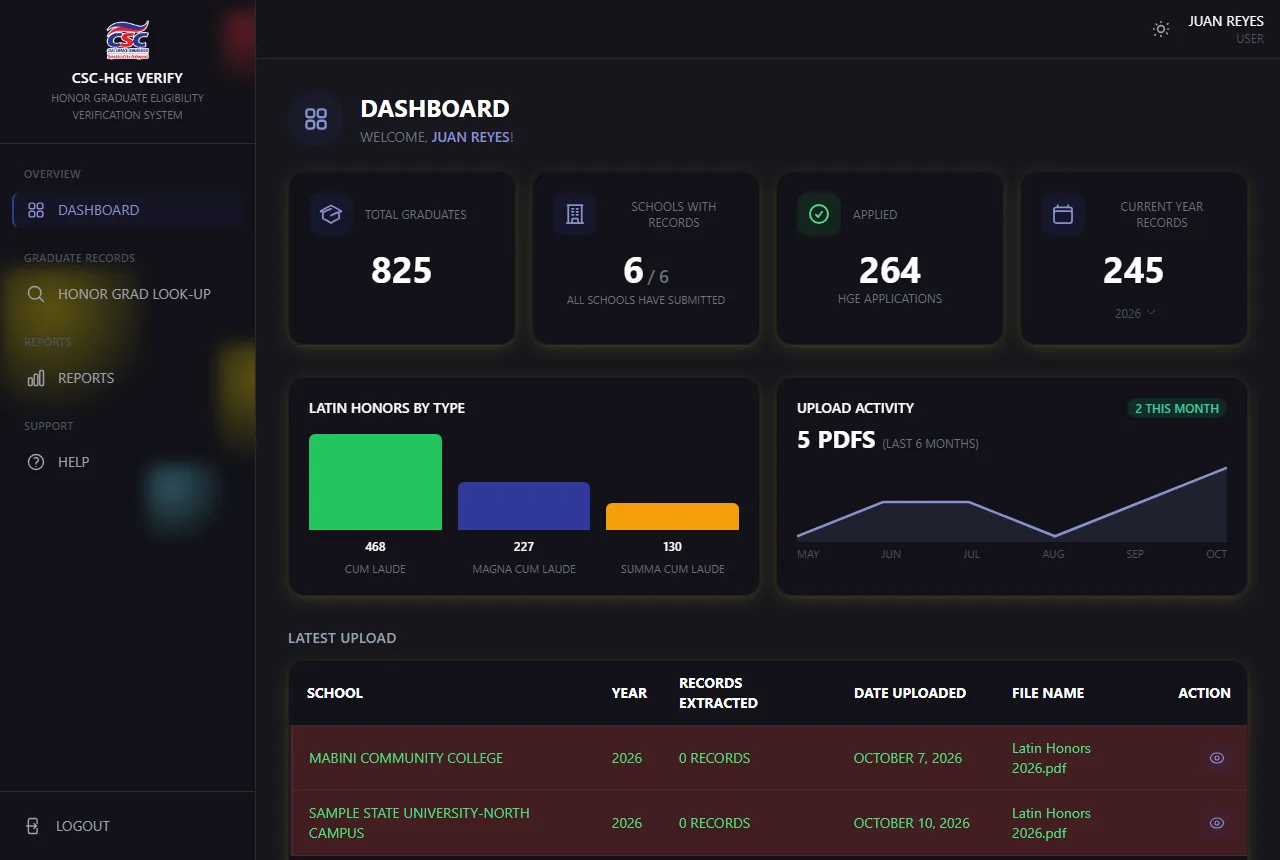
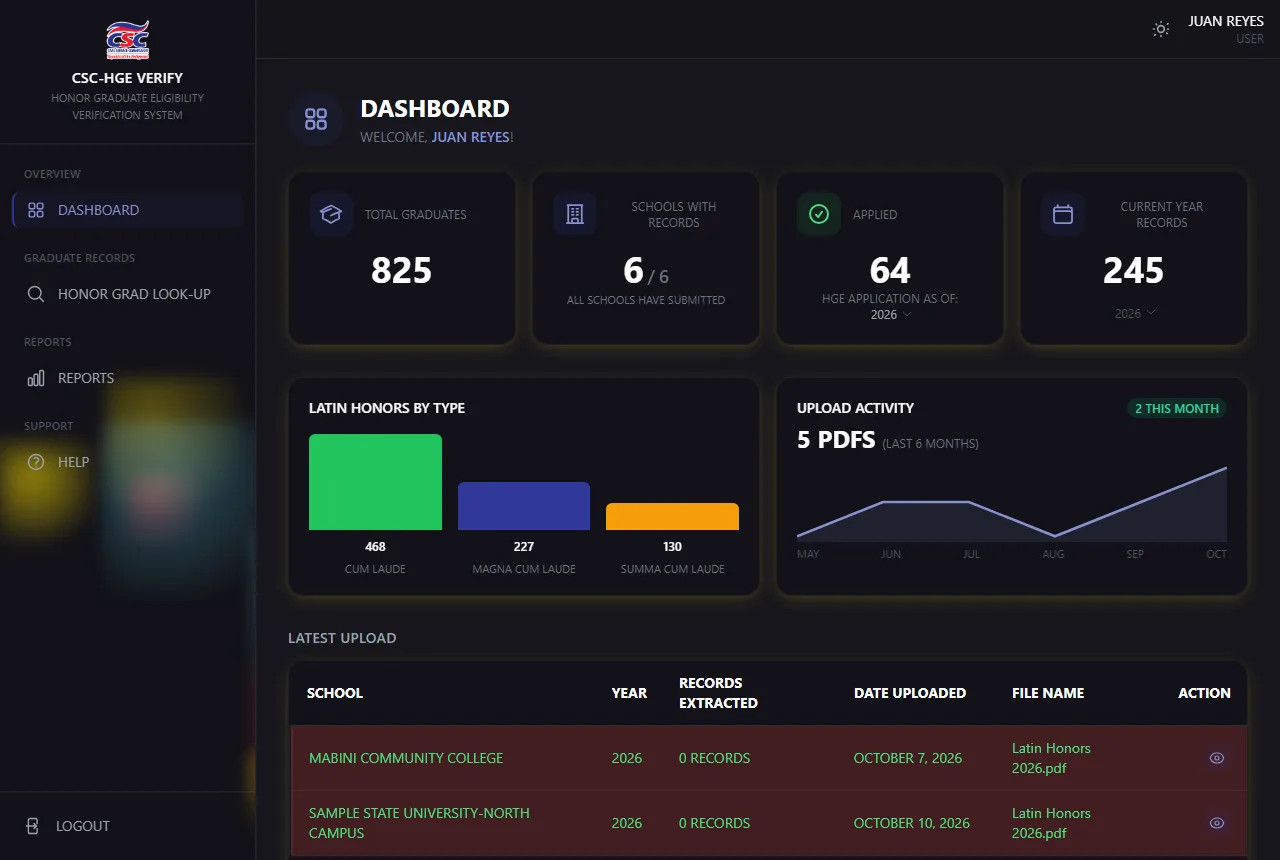
feat: dashboard APPLIED card shows applications per year with a year dropdown

diff --git a/assets/js/dashboard.js b/assets/js/dashboard.js
@@ -128,9 +128,11 @@ document.addEventListener('DOMContentLoaded', function () {
         });
     });
 
-    var yearSelect = document.getElementById('dashboard-year-select');
-    var yearRecordsNumber = document.getElementById('dashboard-year-records-number');
-    if (yearSelect && yearRecordsNumber) {
+    // A card whose number follows a year dropdown (CURRENT YEAR RECORDS, HGE APPLICATION AS OF).
+    function bindYearCard(yearSelect, yearRecordsNumber, metricQuery) {
+        if (!yearSelect || !yearRecordsNumber) {
+            return;
+        }
         var prefersReducedMotion = window.matchMedia('(prefers-reduced-motion: reduce)').matches;
 
         yearSelect.addEventListener('change', function () {
@@ -139,7 +141,7 @@ document.addEventListener('DOMContentLoaded', function () {
             var previousText = yearRecordsNumber.textContent;
             yearRecordsNumber.classList.add('opacity-50');
 
-            fetch(config.apiBase + '/api/get_dashboard_year_records.php?year=' + encodeURIComponent(year))
+            fetch(config.apiBase + '/api/get_dashboard_year_records.php?year=' + encodeURIComponent(year) + metricQuery)
                 .then(function (response) {
                     return response.json();
                 })
@@ -172,4 +174,7 @@ document.addEventListener('DOMContentLoaded', function () {
                 });
         });
     }
+
+    bindYearCard(document.getElementById('dashboard-year-select'), document.getElementById('dashboard-year-records-number'), '');
+    bindYearCard(document.getElementById('dashboard-applied-year-select'), document.getElementById('dashboard-applied-number'), '&metric=applied');
 });

diff --git a/tests/includes/FlashAndStatsTest.php b/tests/includes/FlashAndStatsTest.php
@@ -30,7 +30,7 @@ class FlashAndStatsTest extends TestCase
         $this->assertSame(0, $stats['total_schools']);
         $this->assertSame(0, $stats['total_active_schools']);
         $this->assertSame(0, $stats['total_uploads']);
-        $this->assertSame(0, $stats['total_applied']);
+        $this->assertSame(0, $stats['applied_this_year']);
         $this->assertNull($stats['current_year']);
         $this->assertSame(0, $stats['current_year_records']);
     }
@@ -55,7 +55,7 @@ class FlashAndStatsTest extends TestCase
         $this->assertSame(1, $stats['total_schools']);
         $this->assertSame(2, $stats['total_active_schools']);
         $this->assertSame(1, $stats['total_uploads']);
-        $this->assertSame(0, $stats['total_applied']);
+        $this->assertSame(0, $stats['applied_this_year']);
         $this->assertSame(2025, $stats['current_year']);
         $this->assertSame(1, $stats['current_year_records']);
     }
@@ -152,5 +152,33 @@ class FlashAndStatsTest extends TestCase
         $series = get_upload_activity_by_month($pdo, 6);
 
         $this->assertSame(1, $series[5]['count']);
+    }
+    public function testApplicationsAreCountedPerYearFiledAndTheCurrentYearIsAlwaysOffered(): void
+    {
+        $pdo = TestDb::pdo();
+        $pdo->exec("INSERT INTO users (name, username, email, password, role) VALUES ('Admin', 'admin', 'a@a.com', 'x', 'administrator')");
+        $pdo->exec("INSERT INTO schools (school_name) VALUES ('ABC UNIVERSITY')");
+        $pdo->exec(
+            "INSERT INTO latin_honor_uploads (school_id, school_year, original_filename, stored_filename, file_path, file_size, file_hash, uploaded_by, extraction_status, records_extracted)
+             VALUES (1, '2025', 'list.pdf', 'stored.pdf', '/storage/pdfs/stored.pdf', 100, SHA2('x',256), 1, 'reviewed', 3)"
+        );
+        $pdo->exec(
+            "INSERT INTO latin_honor_graduates (upload_id, school_id, graduate_name, latin_honor, graduation_year)
+             VALUES (1, 1, 'A ONE', 'CUM LAUDE', 2025), (1, 1, 'B TWO', 'CUM LAUDE', 2025), (1, 1, 'C THREE', 'CUM LAUDE', 2025)"
+        );
+        $pdo->exec(
+            "INSERT INTO graduate_applications (graduate_id, applied_by, application_date)
+             VALUES (1, 1, '2024-03-01'), (2, 1, '2024-12-31'), (3, 1, '2023-05-05')"
+        );
+
+        $this->assertSame(2, get_applied_count_by_year($pdo, 2024));
+        $this->assertSame(1, get_applied_count_by_year($pdo, 2023));
+        $this->assertSame(0, get_applied_count_by_year($pdo, 2030));
+
+        $years = get_application_years($pdo);
+        $this->assertSame((int) date('Y'), $years[0]);
+        $this->assertContains(2024, $years);
+        $this->assertContains(2023, $years);
+        $this->assertSame($years, array_values(array_unique($years)));
     }
 }

diff --git a/includes/functions.php b/includes/functions.php
@@ -206,7 +206,6 @@ function get_dashboard_stats(PDO $pdo): array
     $totalSchools = (int) $pdo->query('SELECT COUNT(DISTINCT school_id) FROM latin_honor_uploads')->fetchColumn();
     $totalActiveSchools = (int) $pdo->query("SELECT COUNT(*) FROM schools WHERE status = 'active'")->fetchColumn();
     $totalUploads = (int) $pdo->query('SELECT COUNT(*) FROM latin_honor_uploads')->fetchColumn();
-    $totalApplied = (int) $pdo->query('SELECT COUNT(*) FROM graduate_applications')->fetchColumn();
     $currentYear = $pdo->query('SELECT MAX(graduation_year) FROM latin_honor_graduates')->fetchColumn();
 
     $currentYearRecords = $currentYear !== null ? get_graduate_count_by_year($pdo, (int) $currentYear) : 0;
@@ -216,7 +215,8 @@ function get_dashboard_stats(PDO $pdo): array
         'total_schools' => $totalSchools,
         'total_active_schools' => $totalActiveSchools,
         'total_uploads' => $totalUploads,
-        'total_applied' => $totalApplied,
+        'applied_year' => (int) date('Y'),
+        'applied_this_year' => get_applied_count_by_year($pdo, (int) date('Y')),
         'current_year' => $currentYear !== null ? (int) $currentYear : null,
         'current_year_records' => $currentYearRecords,
     ];
@@ -357,6 +357,35 @@ function ai_availability_tier(int $usedPercent): array
     }
 
     return $tier + ['available_percent' => $availablePercent];
+}
+
+/**
+ * Backs the dashboard's "HGE APPLICATION AS OF" card (admin/dashboard.php +
+ * api/get_dashboard_year_records.php?metric=applied): how many applications were
+ * filed (application_date) in the given calendar year.
+ */
+function get_applied_count_by_year(PDO $pdo, int $year): int
+{
+    $stmt = $pdo->prepare('SELECT COUNT(*) FROM graduate_applications WHERE YEAR(application_date) = :year');
+    $stmt->execute(['year' => $year]);
+
+    return (int) $stmt->fetchColumn();
+}
+
+/**
+ * Years offered by that card's dropdown: every year an application was filed in,
+ * plus the current year (the default), newest first.
+ *
+ * @return int[]
+ */
+function get_application_years(PDO $pdo): array
+{
+    $years = array_map('intval', $pdo->query('SELECT DISTINCT YEAR(application_date) FROM graduate_applications')->fetchAll(PDO::FETCH_COLUMN));
+    $years[] = (int) date('Y');
+    $years = array_values(array_unique($years));
+    rsort($years);
+
+    return $years;
 }
 
 function get_distinct_graduation_years(PDO $pdo): array

diff --git a/admin/dashboard.php b/admin/dashboard.php
@@ -11,6 +11,7 @@ require_login();
 $pdo = get_pdo();
 $stats = get_dashboard_stats($pdo);
 $graduationYears = get_distinct_graduation_years($pdo);
+$applicationYears = get_application_years($pdo);
 $recentUploads = get_recent_uploads($pdo, 10);
 $honorBreakdown = get_honor_type_breakdown($pdo);
 $uploadActivity = get_upload_activity_by_month($pdo, 6);
@@ -72,8 +73,18 @@ include __DIR__ . '/../includes/sidebar.php';
                     <p class="text-xs text-gray-600 dark:text-gray-500">APPLIED</p>
                 </div>
                 <div>
-                    <p class="dashboard-stat-number" data-count-to="<?= (int) $stats['total_applied'] ?>">0</p>
-                    <p class="text-xs text-gray-500 dark:text-gray-500 mt-0.5">HGE APPLICATIONS</p>
+                    <p class="dashboard-stat-number" id="dashboard-applied-number" data-count-to="<?= (int) $stats['applied_this_year'] ?>">0</p>
+                    <div class="mt-0.5 flex flex-col items-center text-xs text-gray-500 dark:text-gray-500">
+                        <label for="dashboard-applied-year-select">HGE APPLICATION AS OF:</label>
+                        <div class="relative inline-block">
+                            <select id="dashboard-applied-year-select" class="appearance-none bg-transparent text-xs text-gray-500 dark:text-gray-400 text-center pl-1 pr-4 cursor-pointer hover:text-gray-700 dark:hover:text-gray-300 focus:outline-none">
+                                <?php foreach ($applicationYears as $y): ?>
+                                    <option value="<?= (int) $y ?>" <?= $y === $stats['applied_year'] ? 'selected' : '' ?>><?= (int) $y ?></option>
+                                <?php endforeach; ?>
+                            </select>
+                            <svg class="pointer-events-none absolute right-0 top-1/2 -translate-y-1/2 h-3 w-3 text-gray-400 dark:text-gray-600" fill="none" viewBox="0 0 24 24" stroke="currentColor" stroke-width="2"><path stroke-linecap="round" stroke-linejoin="round" d="M19.5 8.25l-7.5 7.5-7.5-7.5" /></svg>
+                        </div>
+                    </div>
                 </div>
             </div>
             <div class="dashboard-stat-card motion-safe:animate-fade-in-up" style="animation-delay: 600ms">

diff --git a/admin/help.php b/admin/help.php
@@ -51,7 +51,7 @@ $sections = [
         'intro' => 'The dashboard is a quick summary of what is in the system. It is the first page you see after signing in.',
         'steps' => [
             'Click [[DASHBOARD]] in the menu.',
-            'Read the cards at the top: [[TOTAL GRADUATES]], [[SCHOOLS WITH RECORDS]], [[APPLIED]] (HGE applications filed so far) and [[CURRENT YEAR RECORDS]].',
+            'Read the cards at the top: [[TOTAL GRADUATES]], [[SCHOOLS WITH RECORDS]], [[APPLIED]] (HGE applications filed in the year chosen in the [[HGE APPLICATION AS OF:]] box, this year by default) and [[CURRENT YEAR RECORDS]].',
             'Below them, [[LATIN HONORS BY TYPE]] shows how many records are Cum Laude, Magna Cum Laude and Summa Cum Laude, and [[UPLOAD ACTIVITY]] shows uploads over time.',
             '[[LATEST UPLOAD]] lists the most recent school lists, and [[RECENT ACTIVITY]] shows the latest actions in the system.',
         ],
@@ -115,7 +115,7 @@ $sections = [
         'steps' => [
             'Click [[REPORTS]] in the menu.',
             'Choose the reporting period with the two year boxes (from and to).',
-            'Read the summary: [[ON RECORD]] (Latin Honor graduates saved), [[FILING RATE]] and [[NOT YET APPLIED]]. The total number of applications filed is shown on the Dashboard.',
+            'Read the summary: [[ON RECORD]] (Latin Honor graduates saved), [[FILING RATE]] and [[NOT YET APPLIED]]. The number of applications filed in a given year is shown on the Dashboard.',
             'On the trend chart, use [[PER YEAR]] or [[PER MONTH]] to change how it is grouped. Both lines use the same scale, so you can compare them directly. Graduates are placed by the month they graduated and applications by the month they were actually filed.',
             'In the table by school, search for a school, change the sort order, or show only schools that [[HAS FILED]] or have [[NO FILINGS YET]].',
             'Click [[EXPORT REPORT]], then [[EXPORT XLSX]] to download it for Excel or [[PRINT REPORT]] to print it.',

diff --git a/api/get_dashboard_year_records.php b/api/get_dashboard_year_records.php
@@ -16,7 +16,10 @@ if ($year <= 0) {
 }
 
 try {
-    $count = get_graduate_count_by_year(get_pdo(), $year);
+    $pdo = get_pdo();
+    $count = ($_GET['metric'] ?? '') === 'applied'
+        ? get_applied_count_by_year($pdo, $year)
+        : get_graduate_count_by_year($pdo, $year);
 
     echo json_encode(['status' => 'success', 'year' => $year, 'count' => $count]);
 } catch (\Throwable $e) {
